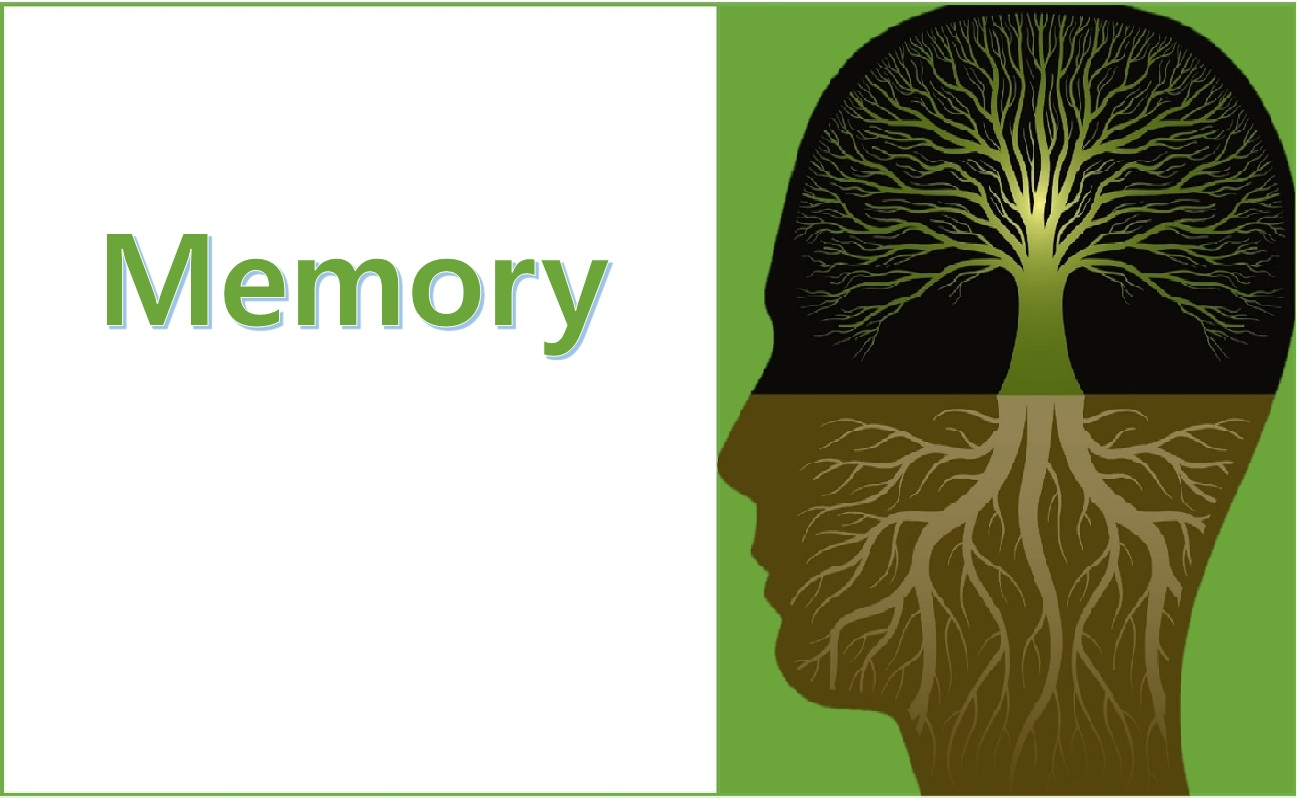
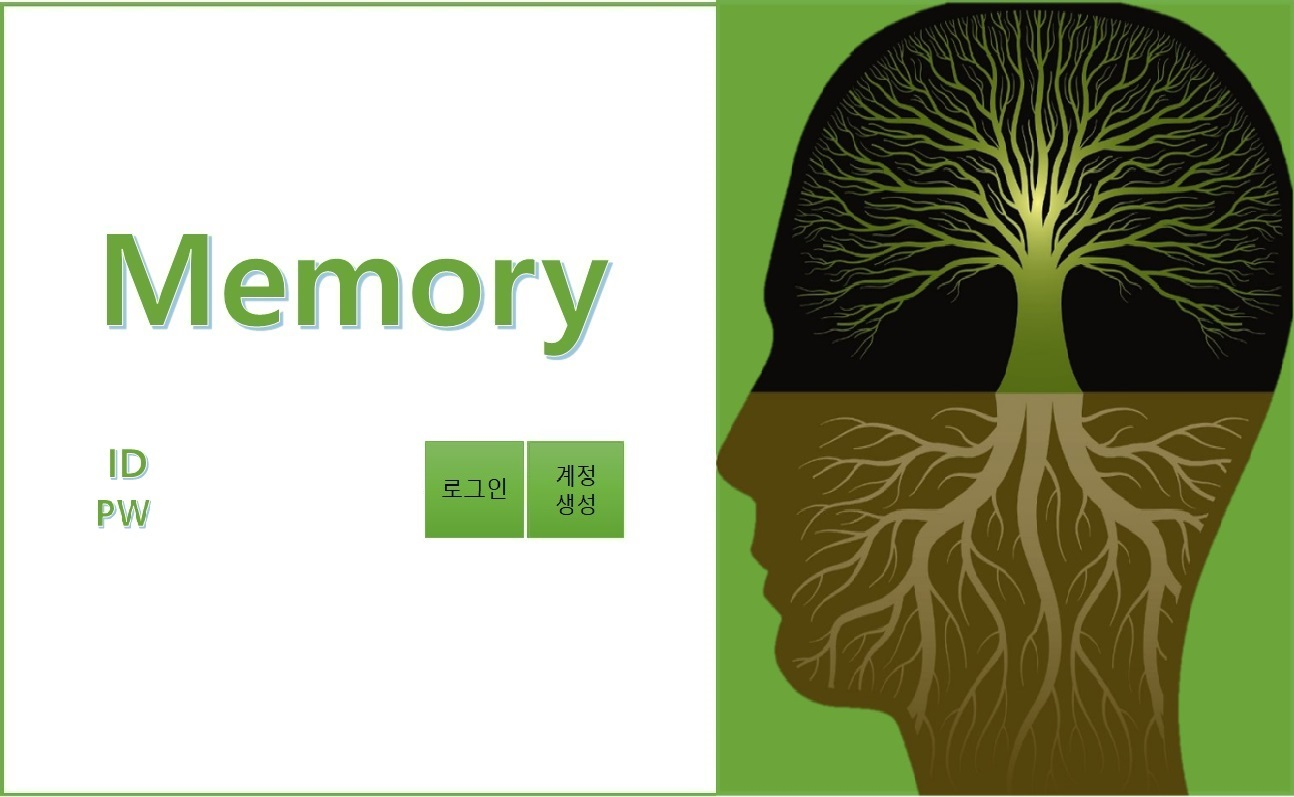
11.14.19.34

diff --git a/window1/src/window1/Popup.java b/window1/src/window1/Popup.java
@@ -1,9 +1,13 @@
 package window1;
 
 import java.awt.BorderLayout;
+import java.awt.Color;
 import java.awt.EventQueue;
+import java.awt.Toolkit;
 
+import javax.swing.ImageIcon;
 import javax.swing.JFrame;
+import javax.swing.JLabel;
 import javax.swing.JPanel;
 import javax.swing.border.EmptyBorder;
 
@@ -15,11 +19,17 @@ public class Popup extends JFrame {
 	 * Create the frame.
 	 */
 	public Popup() {
+		setResizable(false);
+		setIconImage(Toolkit.getDefaultToolkit().getImage("rsc\\logo_icon.png"));
 		setTitle("Popup");
-		setBounds(200, 200, 450, 300);
 		contentPane = new JPanel();
 		contentPane.setBorder(new EmptyBorder(5, 5, 5, 5));
 		contentPane.setLayout(new BorderLayout(0, 0));
+		setBounds(50, 30, 900, 482);
+		JLabel lb_background = new JLabel(new ImageIcon("rsc\\Popup.png"));
+		lb_background.setBackground(Color.WHITE);
+		lb_background.setBounds(0, 0, 900, 482);
+		contentPane.add(lb_background);
 		setContentPane(contentPane);
 	}
 

diff --git a/window1/src/window1/AddPerson.java b/window1/src/window1/AddPerson.java
@@ -1,10 +1,42 @@
 package window1;
 
-public class AddPerson {
+import java.awt.BorderLayout;
+import java.awt.EventQueue;
 
+import javax.swing.JFrame;
+import javax.swing.JPanel;
+import javax.swing.border.EmptyBorder;
+
+public class AddPerson extends JFrame {
+
+	private JPanel contentPane;
+
+	/**
+	 * Launch the application.
+	 */
 	public static void main(String[] args) {
-		// TODO Auto-generated method stub
+		EventQueue.invokeLater(new Runnable() {
+			public void run() {
+				try {
+					AddPerson frame = new AddPerson();
+					frame.setVisible(true);
+				} catch (Exception e) {
+					e.printStackTrace();
+				}
+			}
+		});
+	}
 
+	/**
+	 * Create the frame.
+	 */
+	public AddPerson() {
+
+		setBounds(100, 100, 450, 300);
+		contentPane = new JPanel();
+		contentPane.setBorder(new EmptyBorder(5, 5, 5, 5));
+		contentPane.setLayout(new BorderLayout(0, 0));
+		setContentPane(contentPane);
 	}
 
 }

diff --git a/window1/src/window1/AddGroup.java b/window1/src/window1/AddGroup.java
@@ -1,10 +1,41 @@
 package window1;
 
-public class AddGroup {
+import java.awt.BorderLayout;
+import java.awt.EventQueue;
 
+import javax.swing.JFrame;
+import javax.swing.JPanel;
+import javax.swing.border.EmptyBorder;
+
+public class AddGroup extends JFrame {
+
+	private JPanel contentPane;
+
+	/**
+	 * Launch the application.
+	 */
 	public static void main(String[] args) {
-		// TODO Auto-generated method stub
+		EventQueue.invokeLater(new Runnable() {
+			public void run() {
+				try {
+					AddGroup frame = new AddGroup();
+					frame.setVisible(true);
+				} catch (Exception e) {
+					e.printStackTrace();
+				}
+			}
+		});
+	}
 
+	/**
+	 * Create the frame.
+	 */
+	public AddGroup() {
+		setBounds(100, 100, 450, 300);
+		contentPane = new JPanel();
+		contentPane.setBorder(new EmptyBorder(5, 5, 5, 5));
+		contentPane.setLayout(new BorderLayout(0, 0));
+		setContentPane(contentPane);
 	}
 
 }

diff --git a/window1/src/window1/Frame.java b/window1/src/window1/Frame.java
@@ -4,9 +4,12 @@ package window1;
  */
 public class Frame {
 	static Home frame_home = new Home();
+	static Popup frame_popup = new Popup();
 	static Login frame_login = new Login();
 	static Join frame_join = new Join();
 	static FindIDPW frame_findIDPW = new FindIDPW();
 	static FindPW frame_findPW = new FindPW();
 	static ChangePW frame_changePW = new ChangePW();
+	static AddPerson frame_addperson = new AddPerson();
+	static AddGroup frame_addgroup = new AddGroup();
 }
